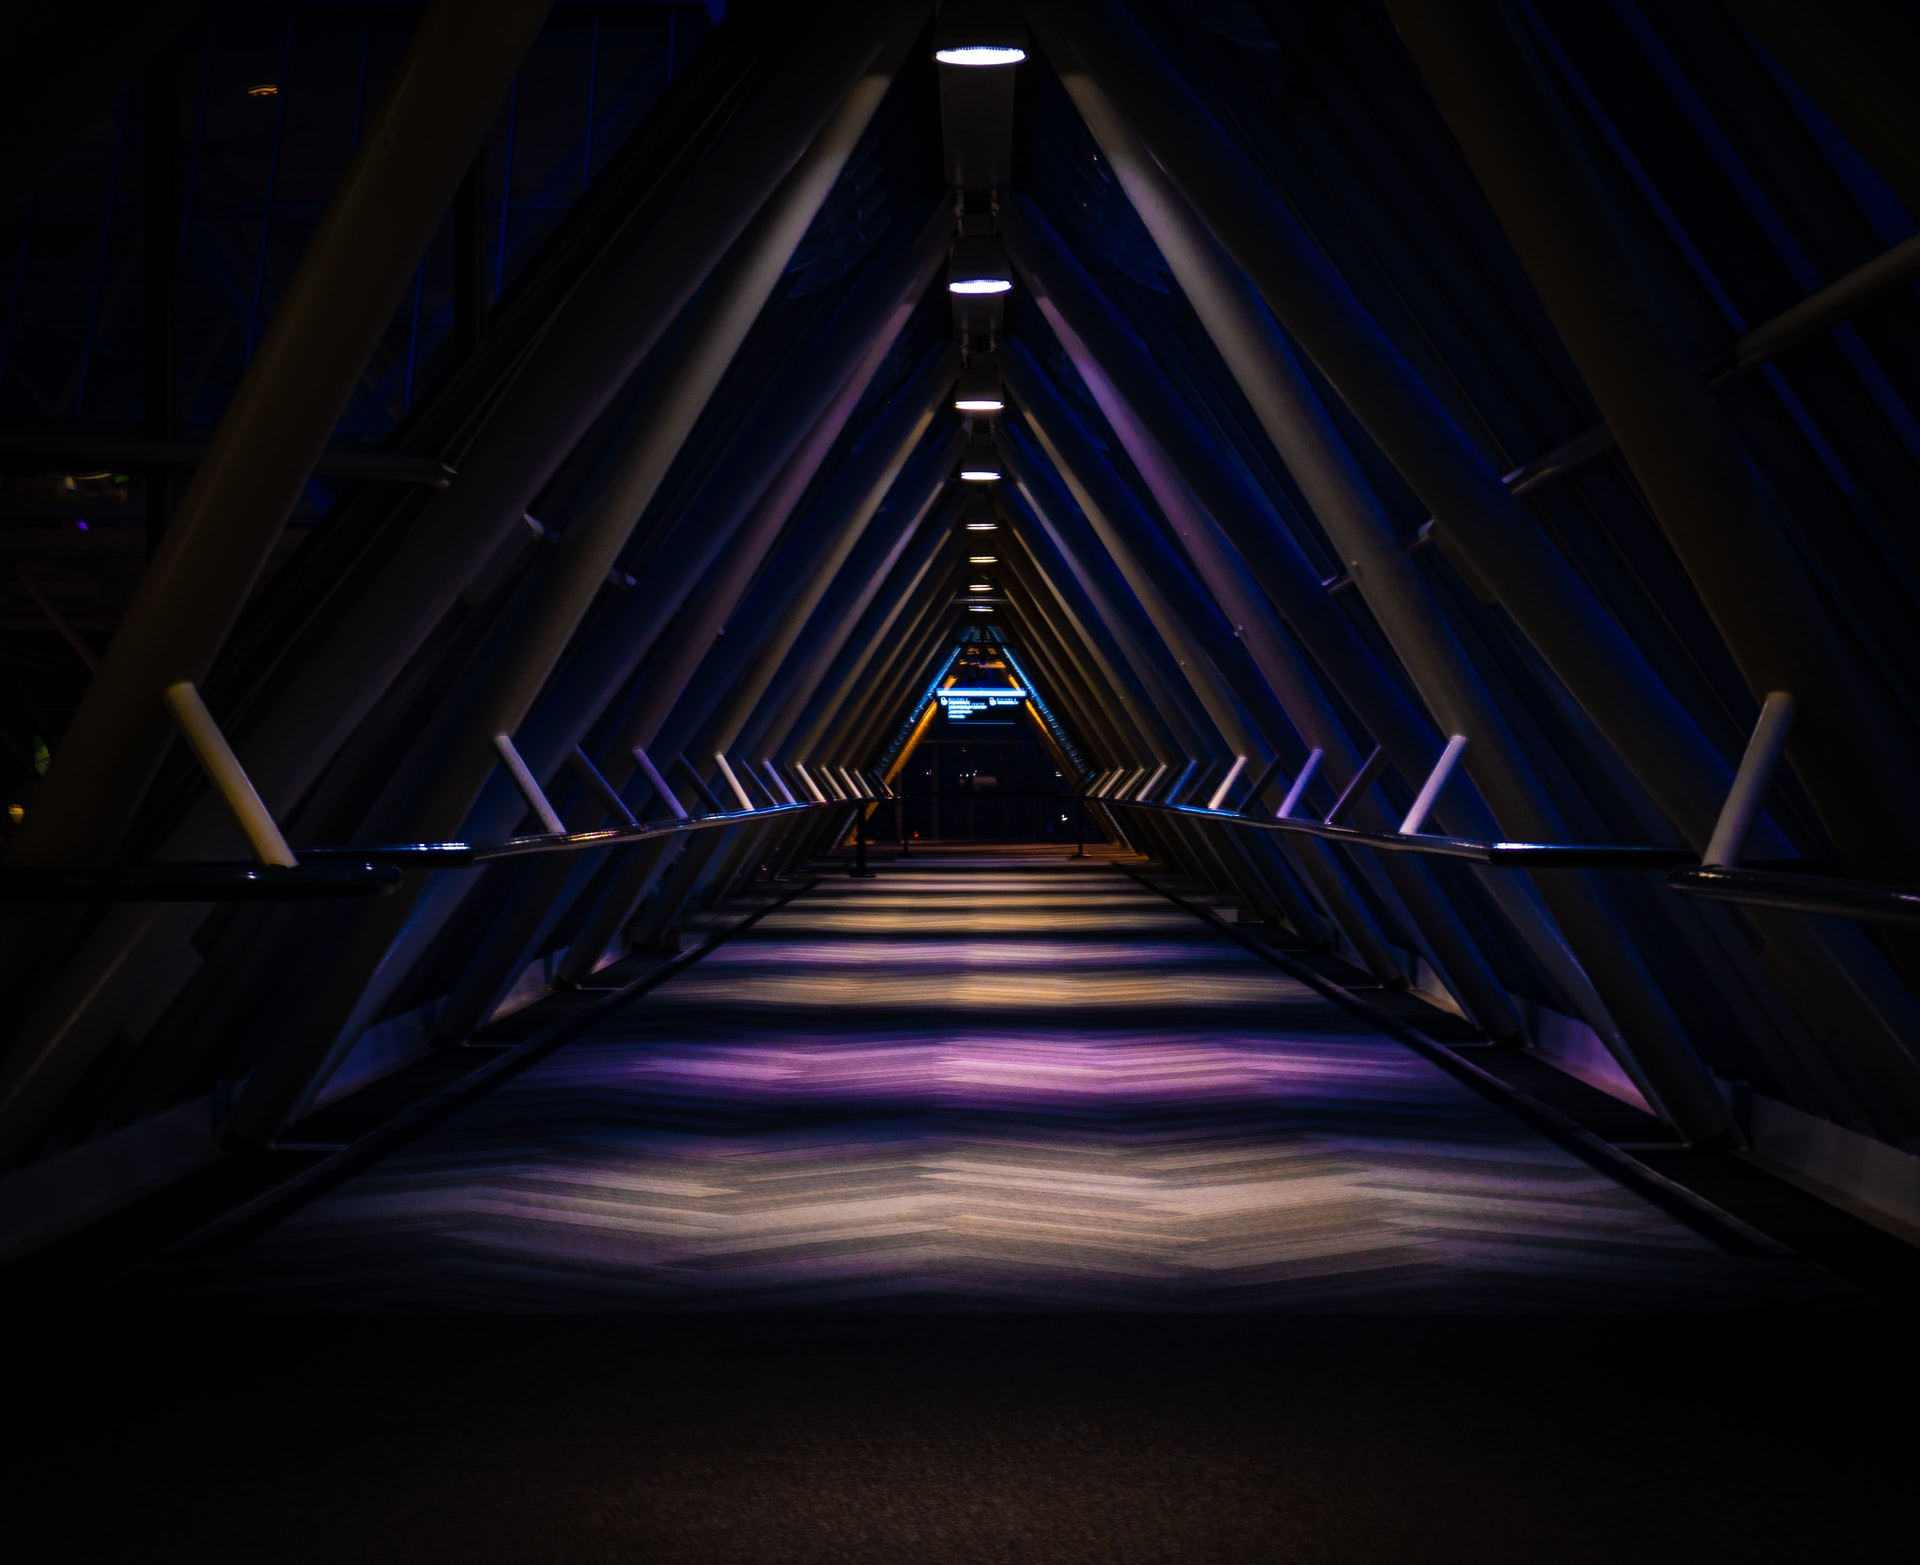
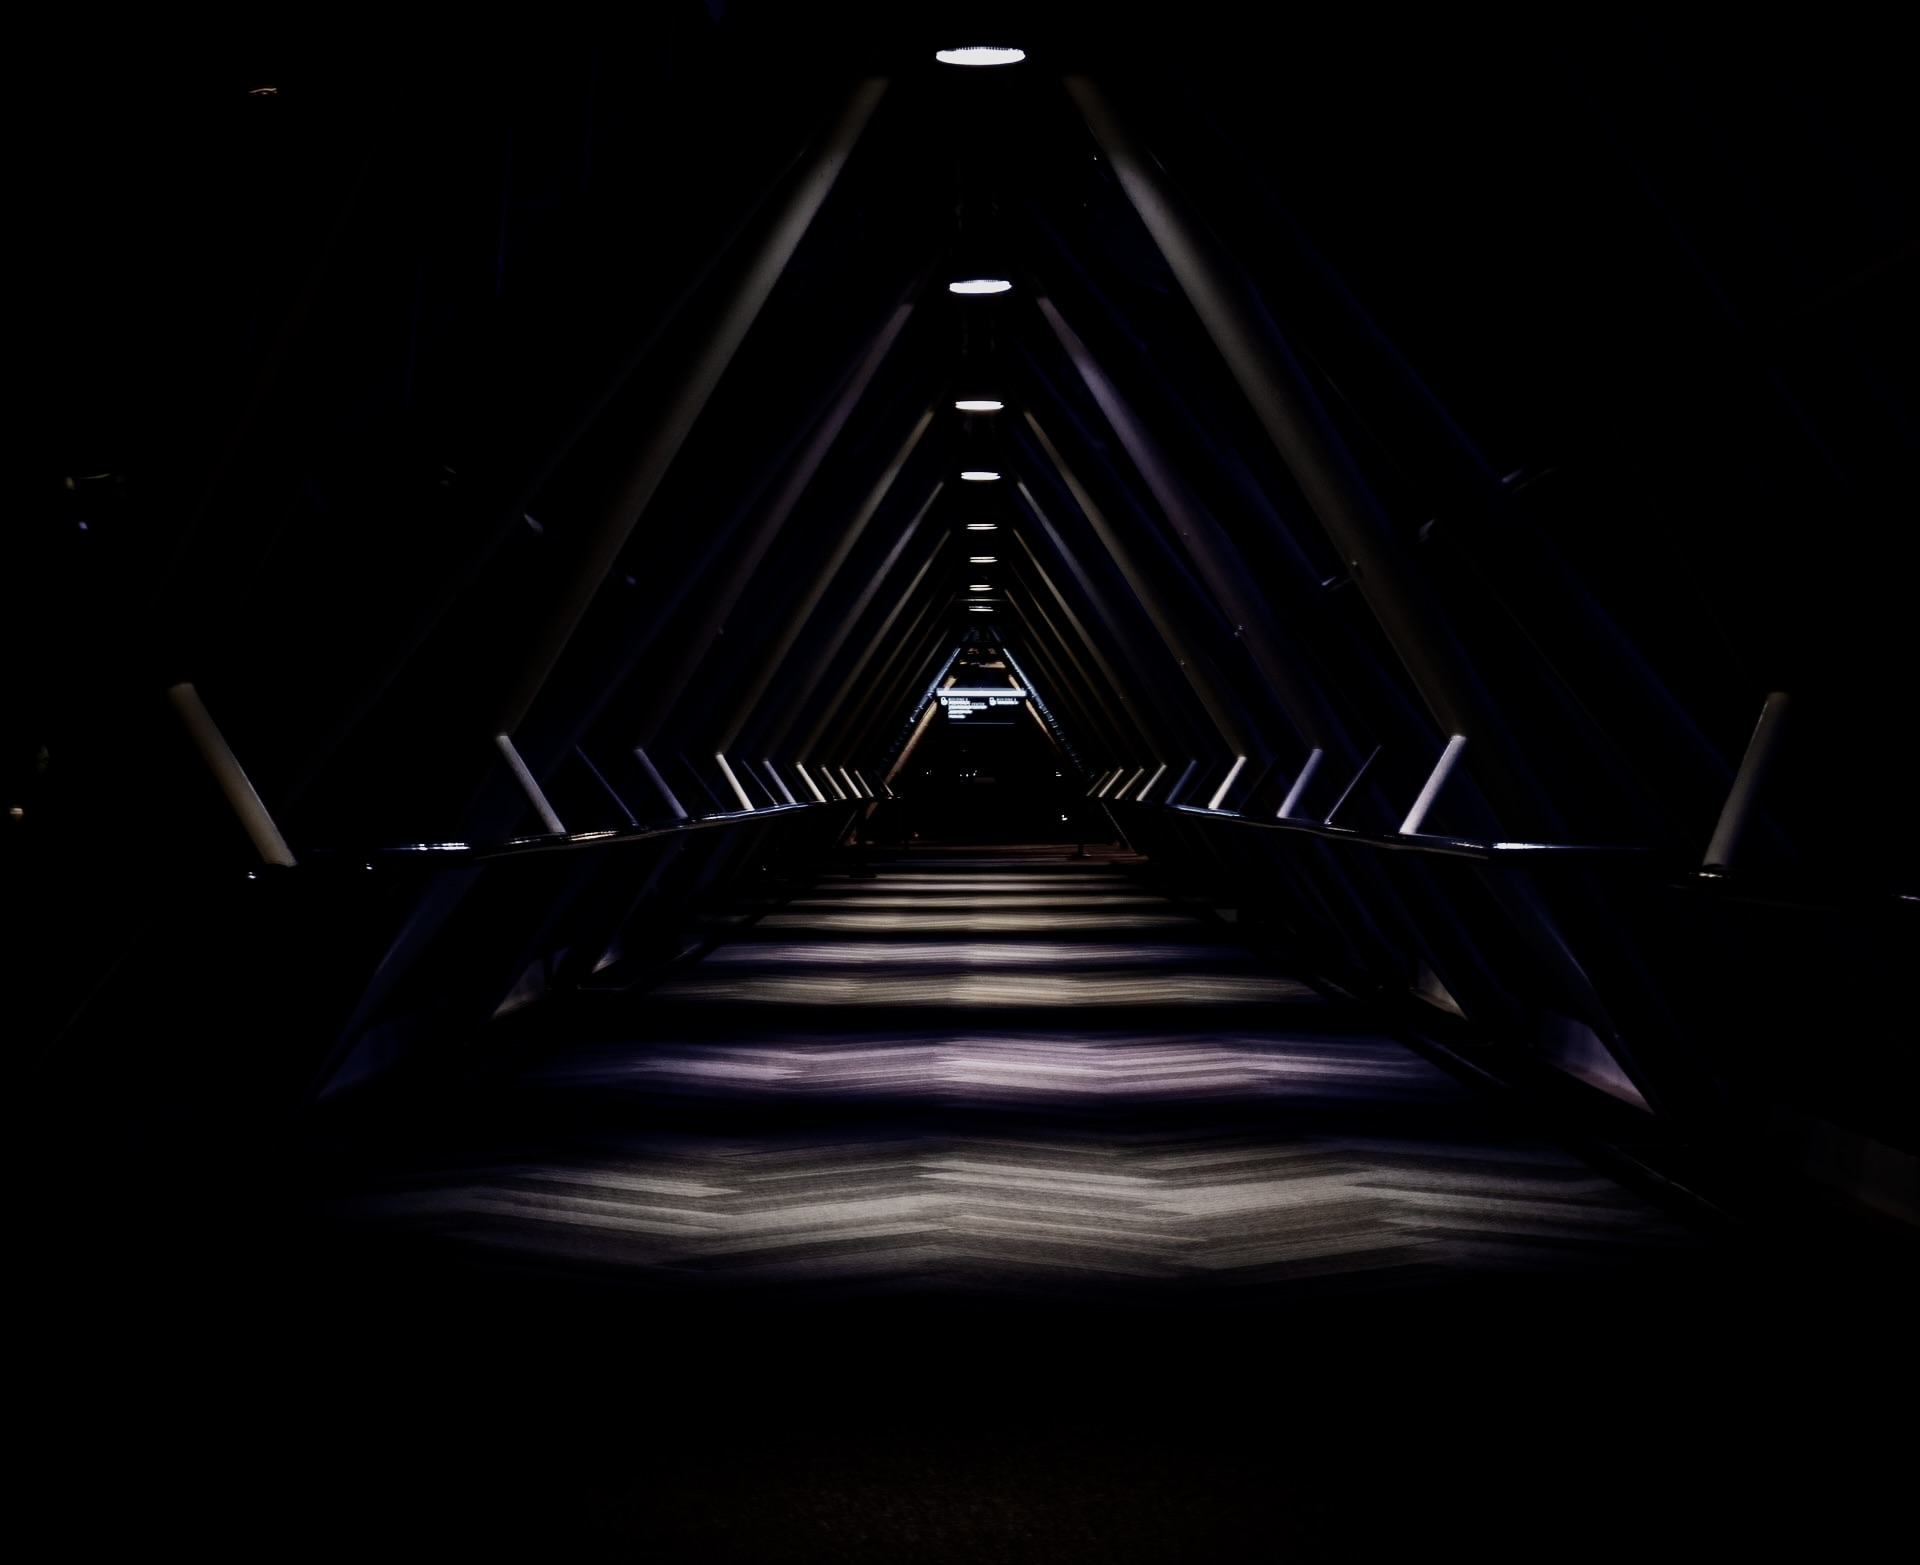
img darken

diff --git a/style.css b/style.css
@@ -38,9 +38,6 @@ main {
 
 .bg-main-img {
   background-image: url('bg-img.jpeg');
-  /* NOTE use the percentages to to get a more exact fit and position */
-  /* background-size: 112%;
-  background-position: 18% 33%; */
   background-size: cover;
   background-position: center;
   min-height: 30vh;
